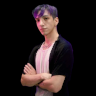
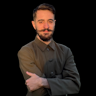
yermify lol

diff --git a/settings.html b/settings.html
@@ -8,7 +8,7 @@
             font-size: 16px;
             font-family: Arial, sans-serif;
             width: 300px;
-            background-color: #8308d5;
+            background-color: darkred;
         }
 
         .kofi-icon {

diff --git a/README.md b/README.md
@@ -1,14 +1,13 @@
 <div align = center>
 
-# Fabiofy
+# Yermify
 
-Necesitas mas Fabio en tu Youtube?
+Necesitas mas Yermi en tu Youtube?
 
 **No se diga mas.**
 
 Posta no se que haces aca si no conoces el injoke grupal, es un fork de MrBeastify para un chiste de los pibes.
 
-[![Button Download Firefox]][Download Firefox]  
 [![Button Download Chrome]][Download Chrome]  
 
 </div>
